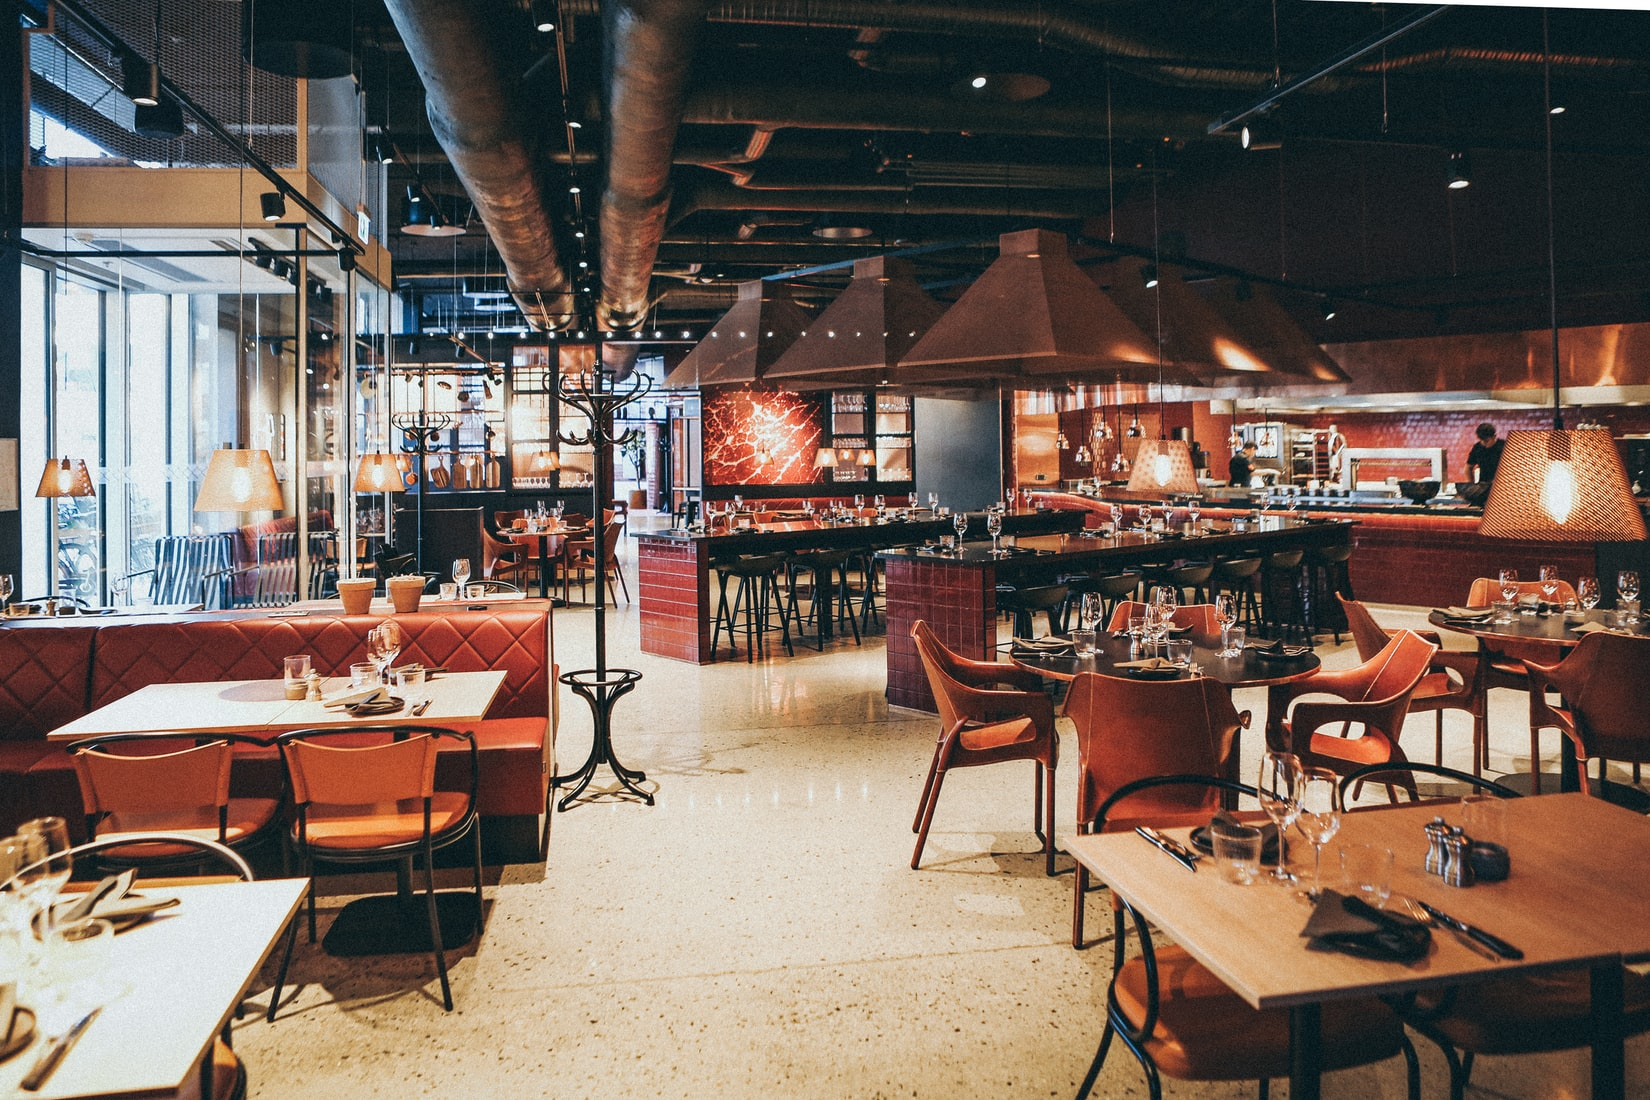
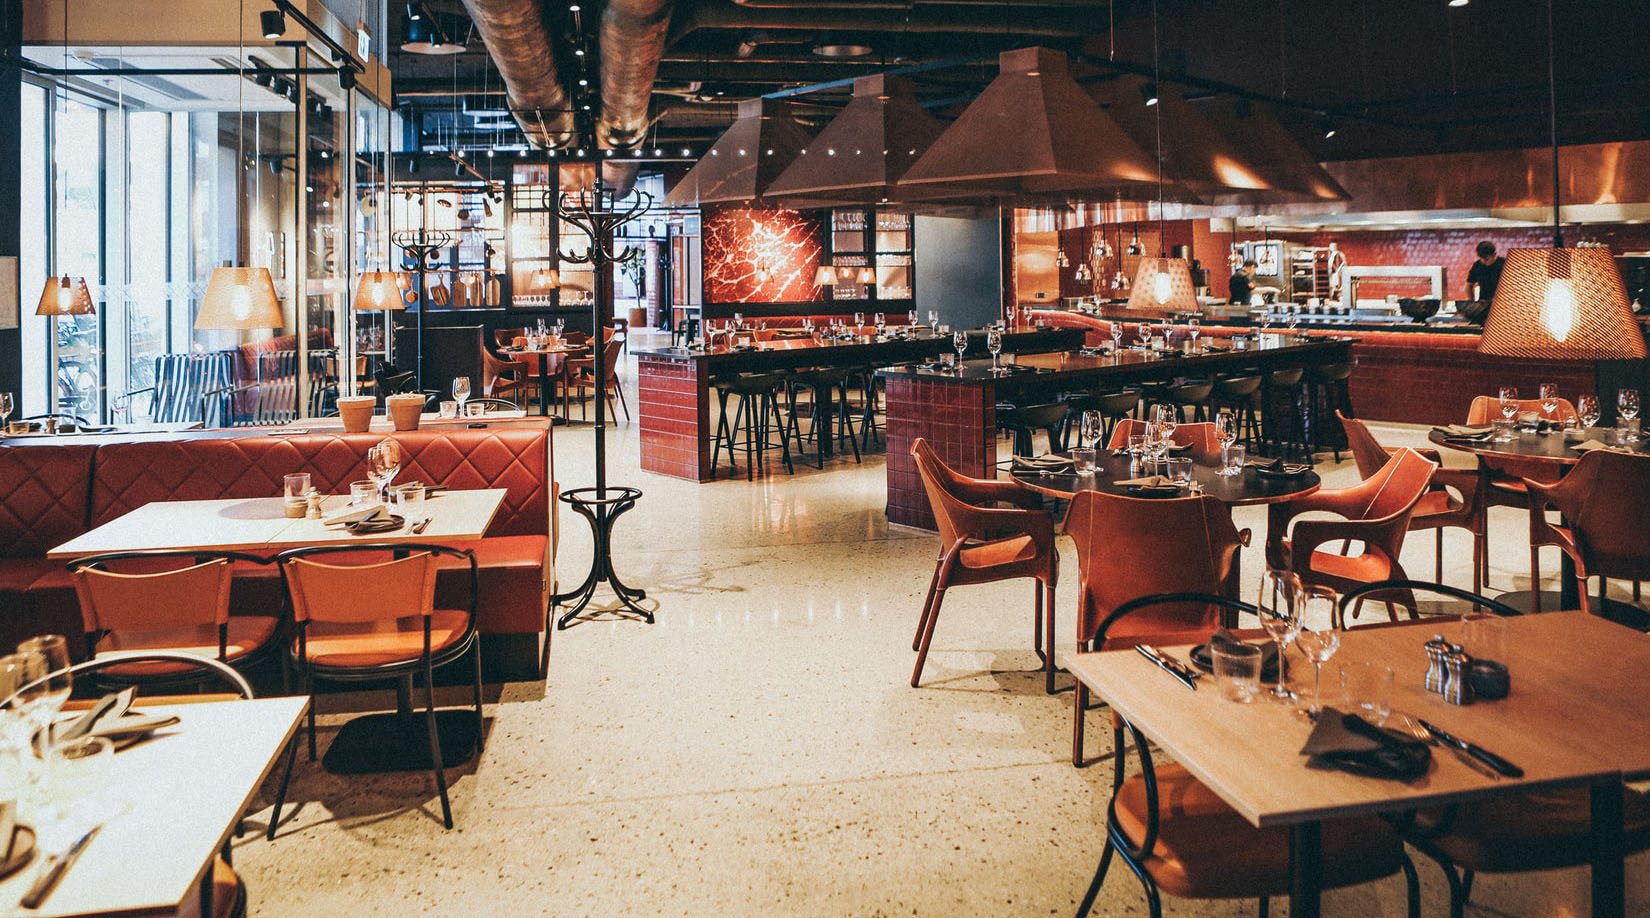
maj header + recipes

diff --git a/wp-content/themes/angrytheme/style.css b/wp-content/themes/angrytheme/style.css
@@ -7,7 +7,7 @@ Version: 1.0
 */
 /*-----RESPONSIVE----*/
 body {
-  font-family: 'Poppins', sans-serif;
+  font-family: "Poppins", sans-serif;
   font-size: 16px;
   font-weight: light;
 }
@@ -19,18 +19,15 @@ body {
   margin-right: auto;
   margin-left: auto;
 }
-
 .originalRest__picture {
   width: 28rem;
   padding: 20px 0px;
 }
-
 .originalRest__title4 {
   padding: 1rem 0rem;
   text-align: center;
   font-family: "Poppins", sans-serif;
 }
-
 .originalRest__title3 {
   padding: 1rem 0rem;
   text-align: center;
@@ -39,7 +36,6 @@ body {
   font-weight: 600;
   text-align: center;
 }
-
 .originalRest__para {
   padding: 0rem 1.5rem;
   line-height: 3em;
@@ -48,7 +44,6 @@ body {
 .reserveTable {
   margin-top: 6rem;
 }
-
 .reserveTable__picture {
   width: 28rem;
   padding: 20px 0px;
@@ -56,13 +51,11 @@ body {
   margin-right: auto;
   margin-left: auto;
 }
-
 .reserveTable__title4 {
   padding: 1rem 0rem;
   text-align: center;
   font-family: "Poppins", sans-serif;
 }
-
 .reserveTable__title3 {
   padding: 1rem 0rem;
   text-align: center;
@@ -72,22 +65,85 @@ body {
   text-align: center;
 }
 
-/* HEADER */
+/* Header.php */
 .menu_class__navlinks {
   font-size: 12px;
   font-weight: 500;
-  font-family: 'Poppins', sans-serif;
+  font-family: "Poppins", sans-serif;
 }
 
 .order-btn a {
-  color: grey;
+  color: #292929;
   text-decoration: none;
-  font-size: 12px;
+  text-transform: uppercase;
+  font-size: 11px;
   font-weight: 500;
-  font-family: 'Poppins', sans-serif;
-  background-color: red;
+  font-family: "Poppins", sans-serif;
+  background-color: white;
   /* haut | droit | bas | gauche */
-  padding: 8px 15px 8px 15px;
-  margin-right: 10px;
+  padding: 7px 20px 7px 20px;
+  margin: 0px 10px 0px 10px;
+  transition: 0.3s;
 }
+
+.order-btn a:hover {
+  color: #FFF;
+  background-color: #292929;
+}
+
+.nav.navbar-nav li a {
+  color: white;
+  margin: 0px 12px 0px 12px;
+  transition: 0.2s;
+}
+
+.nav.navbar-nav li a:hover {
+  color: darkgray;
+}
+
+.cart {
+  width: 18px;
+  margin: 0px 0px 0px 10px;
+}
+
+#headerpicture {
+  width: 100%;
+  height: 80vh;
+  overflow: hidden;
+  position: absolute;
+  z-index: -1;
+  top: 0px;
+}
+
+.black {
+  -webkit-filter: invert(0%) grayscale(10%) brightness(50%) contrast(1);
+  object-position: 50% -50%;
+  z-index: -1;
+  top: 0px;
+  position: relative;
+}
+
+.hatching {
+  width: 100%;
+  transform: rotate(180deg);
+  z-index: 3;
+  position: relative;
+}
+
+.title {
+  font-size: 50px;
+  color: white;
+  font-weight: 300;
+  line-height: 1.2;
+  transform: translate(0, 70px);
+}
+
+.title span {
+  font-size: 70px;
+  display: block;
+  color: white;
+  text-transform: uppercase;
+  font-weight: 500;
+}
+
 /*# sourceMappingURL=style.css.map */

diff --git a/wp-content/themes/angrytheme/style.scss b/wp-content/themes/angrytheme/style.scss
@@ -126,18 +126,75 @@ max-width: 28rem;
 }
 
 
-/* HEADER */
+/* Header.php */
 .menu_class {
 &__navlinks {font-size:12px;
     font-weight:500;
     font-family: 'Poppins', sans-serif;}}
 
-.order-btn a {color:grey;
+.order-btn a {color:$black;
     text-decoration:none;
-    font-size:12px;
+    text-transform:uppercase;
+    font-size:11px;
     font-weight:500;
     font-family: 'Poppins', sans-serif;
-    background-color:red;
+    background-color:white;
     /* haut | droit | bas | gauche */
-    padding:8px 15px 8px 15px; 
-    margin-right:10px;}    
+    padding:7px 20px 7px 20px; 
+    margin:0px 10px 0px 10px;
+    transition:0.3s;} 
+    
+    .order-btn a:hover {color:$white;
+        background-color:$black;}  
+
+    .nav.navbar-nav li a {
+        color: white;
+        margin:0px 12px 0px 12px;
+        transition: 0.2s;
+    }
+    
+    .nav.navbar-nav li a:hover {
+        color: darkgray;
+    }
+
+    .cart {
+        width:18px;
+        margin:0px 0px 0px 10px;
+      }
+    
+    #headerpicture {
+        width:100%;
+        height:80vh;
+        overflow: hidden;
+        position:absolute;
+        z-index: -1;
+        top: 0px;
+      
+
+    }
+
+    .black {
+    -webkit-filter: invert(0%) grayscale(10%) brightness(50%) contrast(1);
+    object-position: 50% -50%;
+    z-index: -1;
+    top: 0px;
+    position:relative; }
+
+    .hatching {width:100%;
+    transform: rotate(180deg);
+    z-index: 3;
+    position:relative}
+    
+    .title { font-size:50px;
+        color:white;
+        font-weight:300;
+        line-height:1.2;
+        transform: translate(0,70px);}
+
+    .title span { font-size:70px;
+        display:block;
+        color:white;
+        text-transform:uppercase;
+        font-weight:500;}
+      
+   

diff --git a/wp-content/themes/angrytheme/header.php b/wp-content/themes/angrytheme/header.php
@@ -14,13 +14,13 @@
 </head>
 <body>
 
-<nav class="navbar navbar-expand-md navbar-light bg-transparent" role="navigation">
-  <div class="container">
+<nav class="navbar mt-3 navbar-expand-md bg-transparent" role="navigation">
+  <div class="container px-5 py-3" style="width:80%;">
     <!-- Brand and toggle get grouped for better mobile display -->
-    <button class="navbar-toggler" type="button" data-toggle="collapse" data-target="#bs-example-navbar-collapse-1" aria-controls="bs-example-navbar-collapse-1" aria-expanded="false" aria-label="<?php esc_attr_e( 'Toggle navigation', 'your-theme-slug' ); ?>">
+    <button class="navbar-toggler" type="button" data-toggle="collapse" data-target="#bs-example-navbar-collapse-1" aria-controls="bs-example-navbar-collapse-1" aria-expanded="false" aria-label="Toggle navigation">
         <span class="navbar-toggler-icon"></span>
     </button>
-    <a class="navbar-brand text-uppercase small h6" href="#">Dev restaurant</a>
+    <a class="navbar-brand text-uppercase small text-white h6" href="#">Dev restaurant</a>
         <?php
         wp_nav_menu( array(
             'theme_location'    => 'primary',
@@ -34,10 +34,11 @@
         ) );
         ?>
         <div class="order-btn"><a href="#">Order</a></div>
-        <img src="<?php echo get_template_directory_uri(); ?>/assets/svg/supermarket.svg" alt="cart" width=13/>
-
+        <img src="<?php echo get_template_directory_uri(); ?>/assets/svg/supermarketwhite.svg" alt="cart" class="cart"/>
     </div>
 </nav>
+
+
 
 
 <!--<nav class="navbar navbar-expand-lg navbar-light bg-transparent">

diff --git a/wp-content/themes/angrytheme/recipes.php b/wp-content/themes/angrytheme/recipes.php
@@ -4,3 +4,19 @@
     Template Post Type: page
     */
 ?>
+<?php get_header(); ?>
+
+<div id="headerpicture">
+<img src="<?php echo get_template_directory_uri(); ?>/assets/images/resto1.jpg" alt="header" class="black" >
+<img src="<?php echo get_template_directory_uri(); ?>/assets/images/hachures-grises.png" alt="linebreaker" class="hatching">
+
+</div>
+
+<div class="container px-5 py-3" style="width:80%;">
+<p class="title">The chef's selection
+<span>Recipes blog</span></p>
+</div>
+
+
+
+<?php get_footer(); ?>
